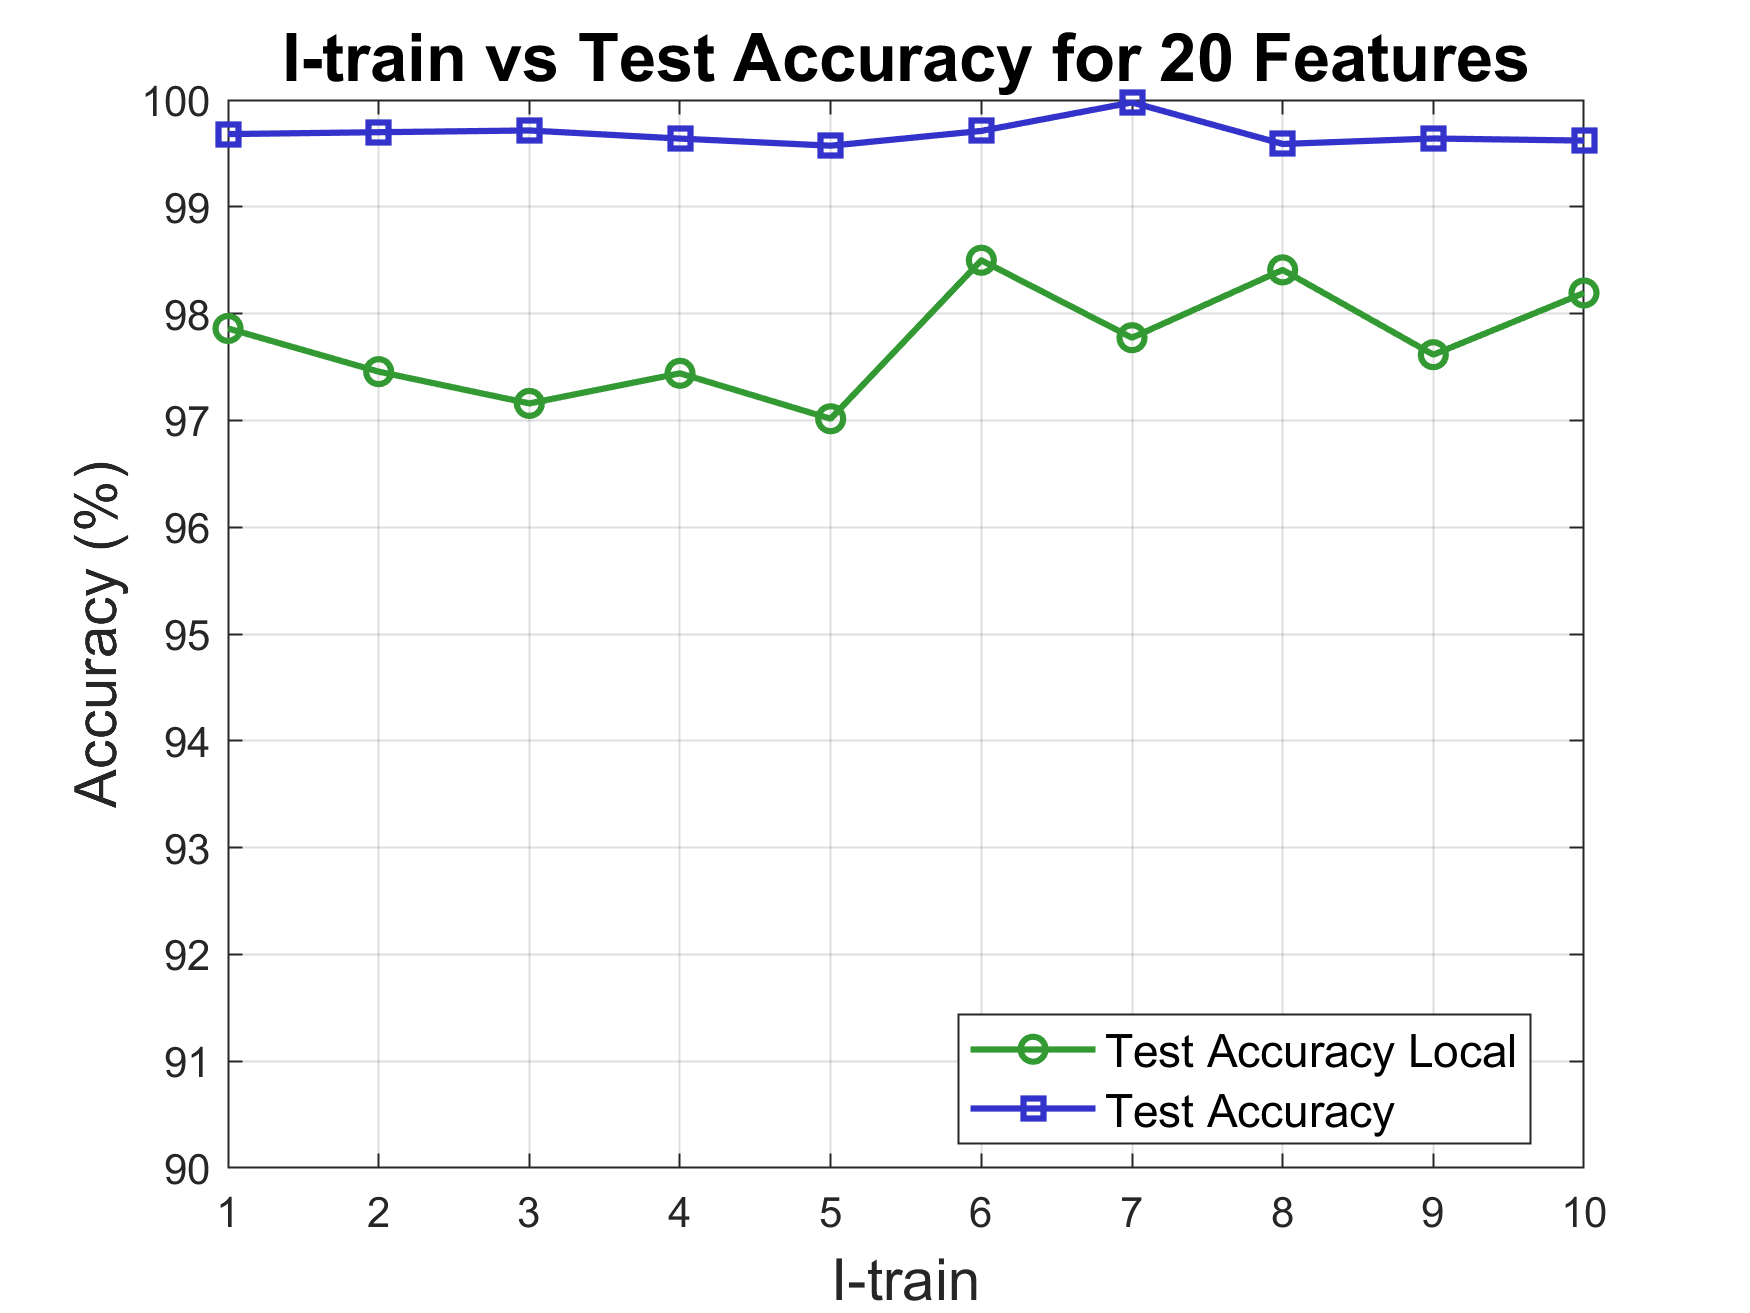
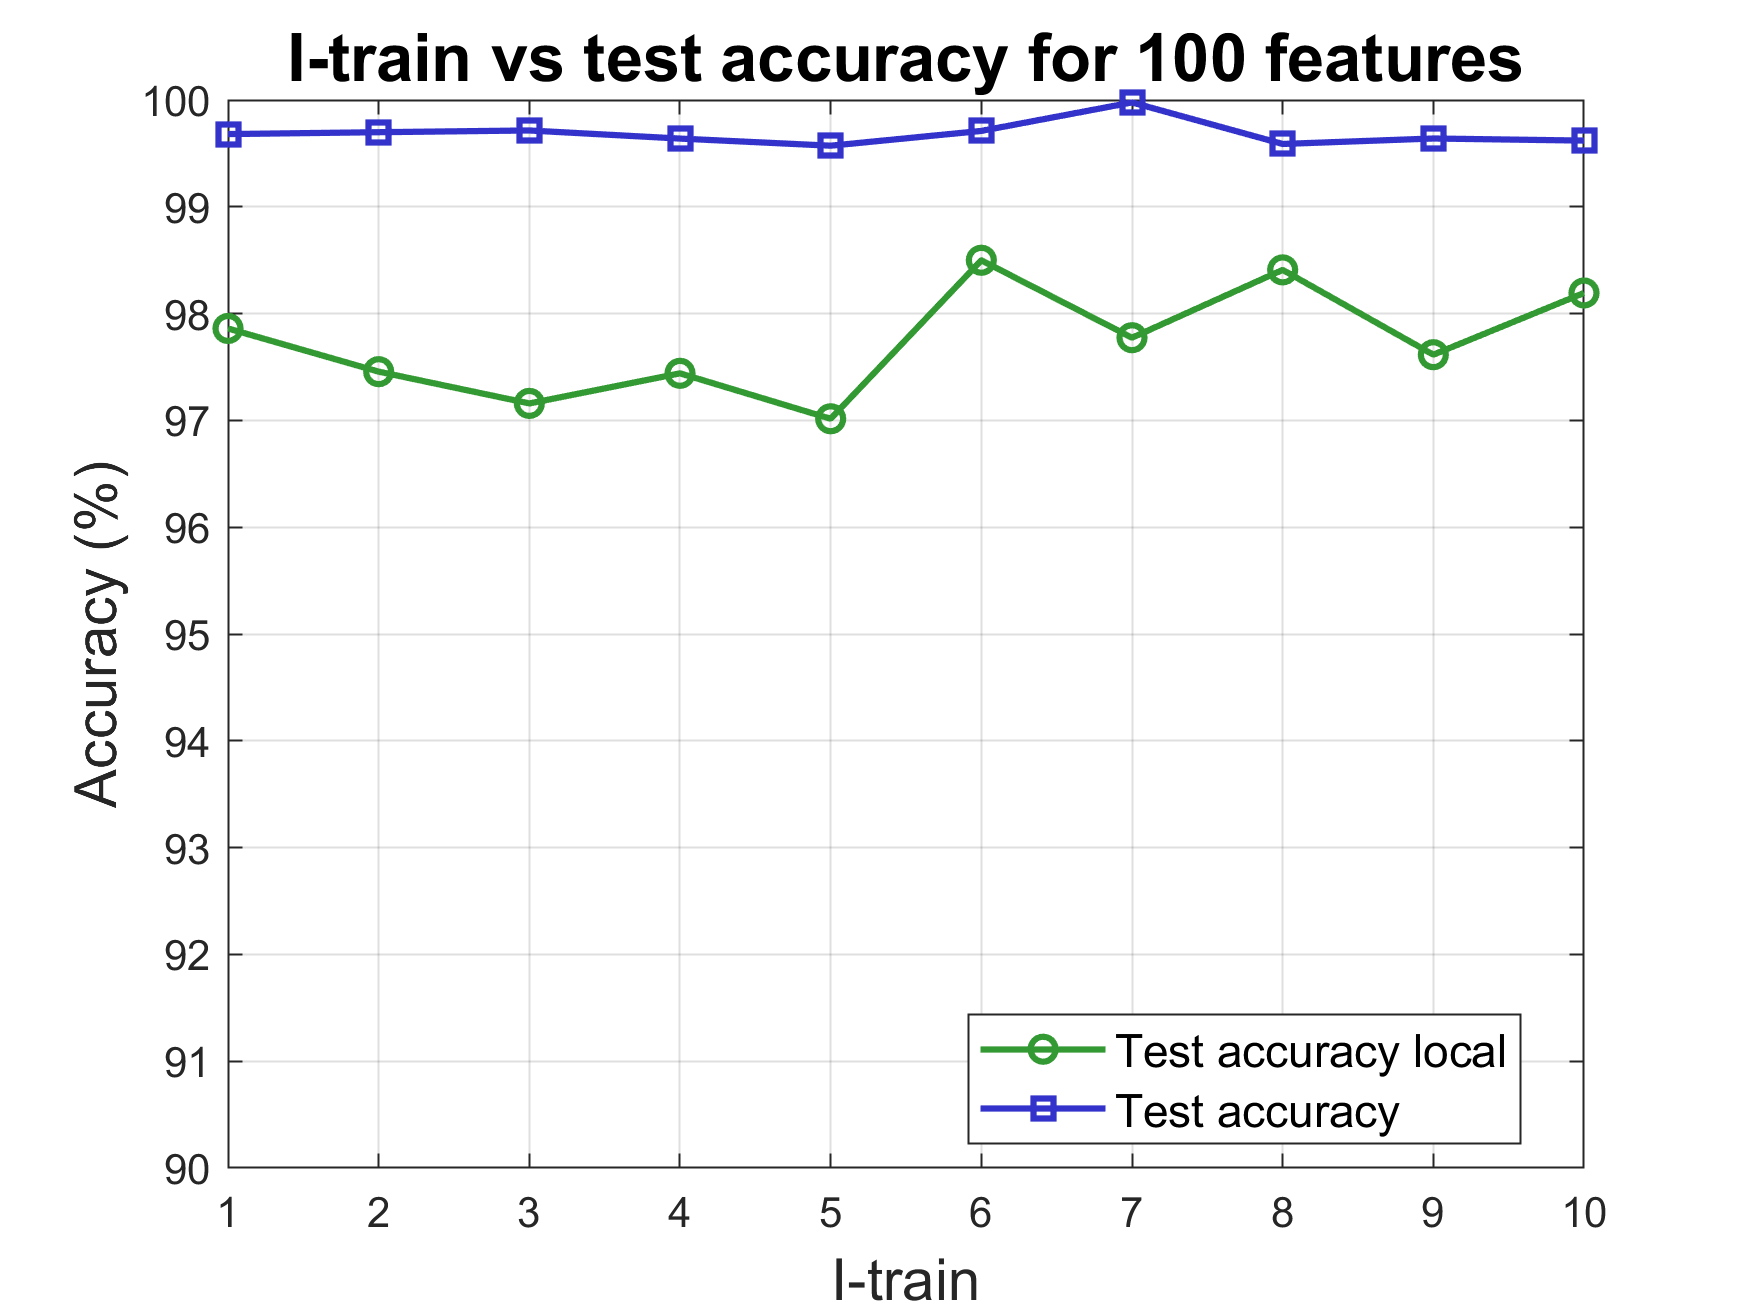
Font size and axis labels fixed for fig3

Changed region(s): [[0.1543, 0.0, 0.8949, 0.0937], [0.5863, 0.7807, 0.8949, 0.8743], [0.5246, 0.7807, 0.5554, 0.8743]]

diff --git a/qubo_fs_matlab/efficient_differentiation/fig3_energy_landscape_and_accuracy/ener_landscape_x_combinations.m b/qubo_fs_matlab/efficient_differentiation/fig3_energy_landscape_and_accuracy/ener_landscape_x_combinations.m
@@ -55,7 +55,7 @@ smoothed_E_reversed = smooth(E_icomb_reversed, 0.1, 'loess');
 plot(smoothed_E_reversed, '-', 'LineWidth', 2, 'DisplayName', 'Smoothed Curve');
 xlabel('Combination index','FontSize',14);
 ylabel('Energy value','FontSize',14);
-title({'Energy landscape for all combinations of 20 genes', 'selecting 3'}, 'FontSize', 15);
+title({'Energy Landscape 1D', ' All combinations of 20 genes selecting 3'}, 'FontSize', 15);
 lgd = legend('show', 'Location','best');
 fontsize(lgd, 11,'points')
 grid on;
@@ -105,9 +105,9 @@ hold on;
 plot(E_icomb_reversed2, '-o', 'MarkerSize', 4, 'DisplayName', 'Raw Energy Values');
 smoothed_E_reversed = smooth(E_icomb_reversed2, 0.1, 'loess');
 plot(smoothed_E_reversed, '-', 'LineWidth', 2, 'DisplayName', 'Smoothed Curve');
-xlabel('Combination Index','FontSize', 14);
-ylabel('Energy Value','FontSize', 14);
-title({'Energy Minimization Landscape', ' All Combinations of 20 Genes Selecting 3'}, 'FontSize', 15);
+xlabel('Combination index','FontSize', 14);
+ylabel('Energy value','FontSize', 14);
+title({'Energy minimization process', ' All combinations of 20 genes selecting 3'}, 'FontSize', 15);
 lgd = legend('show', 'Location','best');
 fontsize(lgd, 11,'points')
 grid on;
@@ -145,7 +145,6 @@ E_icomb_shuffled_reversed = flip(E_icomb_shuffled);
 
 %}
 % Reshape the reversed energy values for 2D grid (ensure reshaped array fits grid dimensions)
-
 setid = 1; 
 smoothed = false;
 useinterp = true;
@@ -177,20 +176,39 @@ if useinterp
 else
     s = surf(pX, pY, pZ, 'EdgeColor', 'none');  % Create the surface plot
 end
-xlabel('Combination Index 1', 'FontSize', 14);
-ylabel('Combination Index 2', 'FontSize', 14);
-zlabel('Energy Value', 'FontSize', 14);
-title({'Energy Landscape for All Combinations of 20 Genes', 'Selecting 3'}, 'FontSize', 15);
+
 %box on;
 colormap jet
 view(3);  % 3D view for better visualization
 hx.show;  % Display the figure
 
+ax = hx.FigHandle.Children; % Access the Axes object
+
+xlabel('Combination index 1', 'FontSize', 14); % Use 'Parent' to specify axes
+ylabel('Combination index 2', 'FontSize', 14); % Use 'Parent' to specify axes
+zlabel('Energy value', 'FontSize', 14);
+title({'Energy landscape 3D', ' All combinations of 20 genes selecting 3'}, 'FontSize', 15);
+
+% Rotate the labels
+xlabel_handle = ax.XLabel; % Access the XLabel object directly
+ylabel_handle = ax.YLabel; % Access the YLabel object directly
+set(xlabel_handle, 'Rotation', 16);
+set(ylabel_handle, 'Rotation', -24);
+
 % Save as high-quality PNG using print
 filename = 'energy_combinations_landscape.png';
-resolution = 300; 
-print(f, filename, '-dpng', sprintf('-r%d', resolution));
-%%
+exportgraphics(ax, filename, 'Resolution', 300);
+%% Energy path plot
+% Energy landscape
+load("../R0.mat")
+load("../selected_500f_results/Tqubo_f500_monocle3_pseudotime_HVG_5000_cells_4697.mat")
+load("../selected_500f_results/Tml_f500_monocle3_pseudotime_HVG_5000_cells_4697.mat")
+
+K = length( Tqubo.selectedGenes); 
+energy_path3(R0, Tqubo.selectedGenes, Tml{1}.selectedGenes, Tml{4}.selectedGenes, g, K,...
+                 Tqubo.alphasol, 'energy_path2_500.png');
+
+%% Not used...
 % a=dec2bin([18 29 20;1 2 3]', 5)'-'0'
 a = dec2bin(combinations', 5)'-'0';
 a = a(:);

diff --git a/qubo_fs_matlab/efficient_differentiation/fig3_energy_landscape_and_accuracy/energy_path3.m b/qubo_fs_matlab/efficient_differentiation/fig3_energy_landscape_and_accuracy/energy_path3.m
@@ -1,4 +1,4 @@
-function energy_path2(R0, qubo_genes, lasso_genes, rfr_genes, genes, K, alphasol, save_path)
+function energy_path3(R0, qubo_genes, lasso_genes, rfr_genes, genes, K, alphasol, save_path)
     % Calculate the energy landscape for QUBO, LASSO, and RFR solutions
     % Inputs:
     % R0: Initial redundancy matrix with importance vector as the last row
@@ -39,19 +39,13 @@ function energy_path2(R0, qubo_genes, lasso_genes, rfr_genes, genes, K, alphasol
     range1 = 1:nsolq;
     f = figure;
     % Plot lines with colors
-    plot(range1, sum_ener_qubo, '-g', 'DisplayName', 'QUBO'); % Green line
+    plot(range1, sum_ener_qubo, '-g', 'LineWidth', 2, 'DisplayName', 'QUBO'); % Green line
     hold on;
     range2 = 1:nsoll;
-    plot(range2, sum_ener_lasso, '-k', 'DisplayName', 'LASSO'); % Black line
+    plot(range2, sum_ener_lasso, '-k', 'LineWidth', 2, 'DisplayName', 'LASSO'); % Black line
     range3 = 1:nsolr;
-    plot(range3, sum_ener_rfr, '-b', 'DisplayName', 'RFR'); % Blue line
-    % Add circles to each data point
-    plot(range1, sum_ener_qubo, '+g', 'MarkerSize', 3,'MarkerFaceColor', 'g', ...
-         'DisplayName', 'QUBO Points'); % Green circles
-    plot(range2, sum_ener_lasso, '+k','MarkerSize', 3, 'MarkerFaceColor', 'k', ...
-        'DisplayName', 'LASSO Points'); % Black circles
-    plot(range3, sum_ener_rfr, '+b','MarkerSize',3,'MarkerFaceColor','b',...
-        'DisplayName', 'RFR Points'); %Blue circles
+    plot(range3, sum_ener_rfr, '-b', 'LineWidth', 2, 'DisplayName', 'RFR'); % Blue line
+   
     % Labels and legend
     xlabel('Number of features','FontSize', 14);
     ylabel('Cumulative energy','FontSize', 14);

diff --git a/qubo_fs_matlab/efficient_differentiation/qfeatures_driver_cross_validation.m b/qubo_fs_matlab/efficient_differentiation/qfeatures_driver_cross_validation.m
@@ -69,11 +69,11 @@ plot(Itrain, TestAccuracy, 's-', 'LineWidth', 1.5, 'Color', [0.2, 0.2, 0.8]); % 
 % Labels and title
 xlabel('I-train','FontSize',14);
 ylabel('Accuracy (%)','FontSize',14);
-title(sprintf('I-train vs Test Accuracy for %d Features', K),'FontSize',16);
+title(sprintf('I-train vs test accuracy for %d features', K),'FontSize',16);
 ylim([90 100])
 
 % Add a legend
-lgd = legend('Test Accuracy Local', 'Test Accuracy', 'Location', 'best');
+lgd = legend('Test accuracy local', 'Test accuracy', 'Location', 'best');
 %lgd = legend('Test Accuracy Local', 'Test Accuracy', 'Location', 'southeast');
 fontsize(lgd, 11,'points')
 

diff --git a/qubo_fs_matlab/efficient_differentiation/qfeatures_driver.m b/qubo_fs_matlab/efficient_differentiation/qfeatures_driver.m
@@ -69,12 +69,6 @@ save(strcat(fname1,'.mat'),'Tml','-v7.3')
 fname1 = strcat('Tqubo', fname0);
 save(strcat(fname1,'.mat'),'Tqubo','-v7.3')
 
-% Energy landscape
-load("R0.mat")
-K = length( Tqubo.selectedGenes); 
-energy_path2(R0, Tqubo.selectedGenes, Tml{1}.selectedGenes, Tml{4}.selectedGenes, g, K,...
-                 Tqubo.alphasol, 'energy_path2_500.svg');
-
 %% Saving matrices for d-wave
 % load('R0.mat');
 % 
